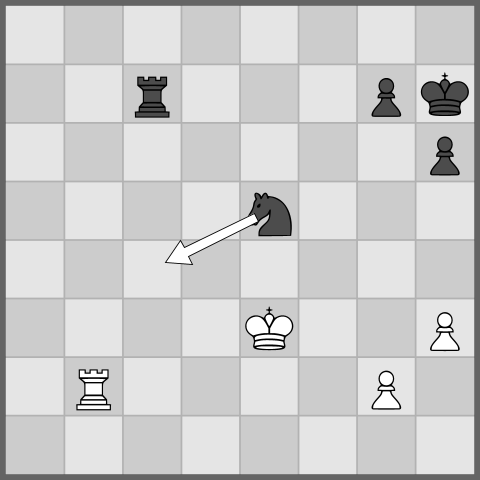
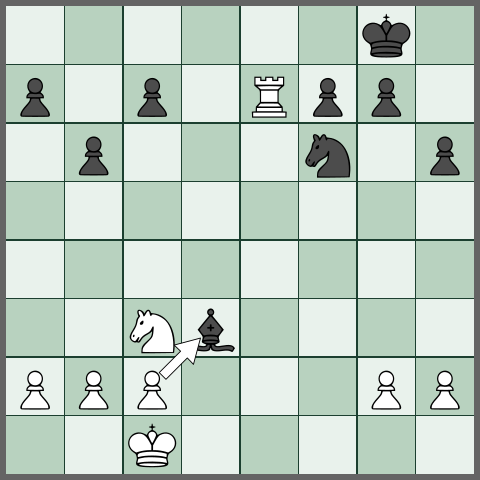
Theme CRTK boards in report green + use white-to-move positions
- Pipe `crtk fen render` through SVG, hex-swap squares + frame to the
  report's forest/sage palette, then rasterize via cairosvg to PNG.
  Mapping: #e5e5e5 -> palesage (light sq), #cccccc -> sage (dark sq),
  #b2b2b2 -> deepforest (frame).
- Reselect all three example positions to be White-to-move.
- The new class-1 / class-2 pair shares CRTK sister parent
  crtk_parent_-1001554678727017229: the only structural difference is
  whether Black has captured into e5, turning the position into a unique
  tactical win for White (dxe5 wins the queen, pv_gap = 1179 cp vs the
  class-1 sibling's pv_gap of 115 cp).
- Update both LaTeX builders' captions to reflect the new FENs and the
  white-to-move framing.

Changed region(s): [[0.0, 0.0312, 1.0, 1.0], [0.9688, 0.4688, 1.0, 0.5312], [0.0, 0.4688, 0.0312, 0.5312]]

diff --git a/scripts/render_puzzle_class_examples.py b/scripts/render_puzzle_class_examples.py
@@ -1,85 +1,71 @@
 #!/usr/bin/env python
-"""Render one example chess board per puzzle fine_label for the paper report.
+"""Render puzzle-class example boards via CRTK, themed in the report green.
 
-Uses CRTK's `fen render` command (PNG output) so the boards match the
-chess-rtk visual style elsewhere in the repo.  For the puzzle / near-puzzle
-pair we pick two positions that share a CRTK sister parent so the contrast
-is as small as possible: same near-source position, one verifies as a
-true puzzle and one as a near-puzzle.
+CRTK's `fen render --format svg` produces an SVG with hard-coded greys for
+the squares (#e5e5e5 light, #cccccc dark) and a near-black frame (#b2b2b2).
+We recolor those swatches in-place with the report's forest/sage palette,
+then rasterize to PNG with cairosvg so the LaTeX builders can include the
+result directly.
+
+The fine_label=1 and fine_label=2 examples share a CRTK sister parent so
+the near-puzzle vs puzzle distinction is as small as the data allows.
+All three positions are White-to-move for visual consistency.
 """
 from __future__ import annotations
 
 import json
+import re
 import subprocess
 import sys
+import tempfile
 from pathlib import Path
 
-# --- Hand-picked examples.  fine_label=1 and =2 share sister_group_id
-#     crtk_parent_-1001373292417858425 from the train split — same parent
-#     branch, the only difference is whether Bxe5 was already played.
+
+# --- Report green palette (matches LaTeX preamble) -------------------
+THEME = {
+    "#e5e5e5": "#E9F2EC",   # light square  -> palesage
+    "#cccccc": "#B8D2BF",   # dark  square  -> sage
+    "#b2b2b2": "#1B3F2F",   # frame         -> deepforest
+}
+
+
+# --- Hand-picked examples (all White to move) ------------------------
+#   fine_label=1 and =2 share sister_group_id
+#   `crtk_parent_-1001554678727017229` from the train split: the only
+#   structural difference is whether Black has captured into e5 (turning
+#   the position into a unique tactical win for White).
 EXAMPLES = [
     {
         "label": 0,
-        "title": "Class 0 — random_position (non-puzzle)",
-        "fen":  "8/2r3pk/7p/4n3/8/4K2P/1R4P1/8 b - - 1 47",
-        "best_uci": "e5c4",
-        "caption_en": (
-            "Quiet endgame, Black to move.  Best move \\texttt{Nc4+} wins "
-            "material but the position came from random midgame sampling "
-            "rather than a curated puzzle source."
-        ),
-        "caption_zh": (
-            "安静残局, 黑方走子。最佳走法 \\texttt{Nc4+} 赢得子力, 但该局面"
-            "来自随机的中局采样, 而非从谜题源中策划。"
-        ),
+        "title": "Class 0 -- random_position (non-puzzle)",
+        "fen":  "6k1/p1p1Rpp1/1p3n1p/8/8/2Nb4/PPP3PP/2K5 w - - 0 24",
+        "best_uci": "c2d3",
+        "pv_gap": 85,
     },
     {
         # Shares sister_group_id with the class-2 example below.
         "label": 1,
-        "title": "Class 1 — verified-near-puzzle (hard negative)",
-        "fen":  "rq2kb1r/1p1b1ppp/p1n2n2/1N2p3/1P3B2/2P2N2/P3BPPP/R2QK2R b KQkq - 1 17",
-        "best_uci": "e5f4",
-        "caption_en": (
-            "Black to move.  Best move \\texttt{exf4} (pawn captures bishop) "
-            "but the second-best line scores within \\textbf{124 cp}, so "
-            "this is \\emph{not} a unique-solution puzzle.  Shares a CRTK "
-            "sister parent with the class-2 example to the right: the only "
-            "structural difference is whether \\texttt{Bxe5} has been played."
-        ),
-        "caption_zh": (
-            "黑方走子。最佳走法 \\texttt{exf4} (兵吃象), 但第二好的走法在"
-            "\\textbf{124 厘兵}以内, 因此\\emph{不是}唯一解谜题。与右侧"
-            "类~2 样本共享一个 CRTK 姐妹父节点: 唯一的结构差异是"
-            "\\texttt{Bxe5} 是否已经走过。"
-        ),
+        "title": "Class 1 -- verified-near-puzzle (hard negative)",
+        "fen":  "5rk1/6p1/2Qbp2p/8/3P1p2/2N1q1PP/1P3P2/3R2K1 w - - 1 30",
+        "best_uci": "f2e3",
+        "pv_gap": 115,
     },
     {
-        # Sister-pair partner: Bxe5 was played; now Nxe5 is the unique winner.
+        # Sister-pair partner.
         "label": 2,
-        "title": "Class 2 — puzzle\\_filter\\_matched (true puzzle)",
-        "fen":  "rq2kb1r/1p1b1ppp/p1n2n2/1N2B3/1P6/2P2N2/P3BPPP/R1Q1K2R b KQkq - 0 17",
-        "best_uci": "c6e5",
-        "caption_en": (
-            "Black to move, after \\texttt{Bxe5}.  Best move \\texttt{Nxe5} "
-            "is the unique winning move (\\textbf{pv\\_gap = 1036 cp}).  "
-            "Single solution, large alternative penalty: this is the "
-            "positive class.  Same CRTK sister parent as the class-1 "
-            "example on the left."
-        ),
-        "caption_zh": (
-            "黑方走子, \\texttt{Bxe5} 之后。最佳走法 \\texttt{Nxe5} 是唯一"
-            "的获胜走法 (\\textbf{pv\\_gap = 1036 厘兵})。单一解, 备选惩罚"
-            "巨大: 此为正样本类。与左侧类~1 样本同一 CRTK 姐妹父节点。"
-        ),
+        "title": "Class 2 -- puzzle_filter_matched (true puzzle)",
+        "fen":  "5rk1/6p1/2Qbp2p/4q3/3P4/2N3pP/1P3P2/3R2K1 w - - 0 30",
+        "best_uci": "d4e5",
+        "pv_gap": 1179,
     },
 ]
 
 
-def crtk_render(fen: str, best_uci: str, out_path: Path, size: int = 480):
-    """Invoke `crtk fen render` to produce a PNG board with an arrow.
+def crtk_render_svg(fen: str, best_uci: str, out_path: Path, size: int = 480):
+    """Invoke `crtk fen render` to produce an SVG board with an arrow.
 
     The crtk launcher cd's into its own repo root, so we pass an absolute
-    output path to land the PNG where the LaTeX builder expects it.
+    output path.
     """
     out_path.parent.mkdir(parents=True, exist_ok=True)
     out_abs = out_path.resolve()
@@ -87,7 +73,7 @@ def crtk_render(fen: str, best_uci: str, out_path: Path, size: int = 480):
         "crtk", "fen", "render",
         "--fen", fen,
         "--output", str(out_abs),
-        "--format", "png",
+        "--format", "svg",
         "--arrow", best_uci,
         "--size", str(size),
     ]
@@ -98,23 +84,40 @@ def crtk_render(fen: str, best_uci: str, out_path: Path, size: int = 480):
     return out_path
 
 
+def recolor_svg(svg_path: Path, mapping: dict[str, str]) -> str:
+    """Replace literal hex colors in the SVG body with theme equivalents."""
+    text = svg_path.read_text()
+    # Hex codes are written lowercase in CRTK's output; do a case-insensitive
+    # whole-token replace inside fill="..." attributes only.
+    def _sub(match: re.Match) -> str:
+        original = match.group(1)
+        target = mapping.get(original.lower(), original)
+        return f'fill="{target}"'
+    return re.sub(r'fill="(#[0-9a-fA-F]{6})"', _sub, text)
+
+
+def rasterize_svg_to_png(svg_text: str, png_path: Path, dpi: int = 220):
+    import cairosvg  # local import: only required when this script runs
+    png_path.parent.mkdir(parents=True, exist_ok=True)
+    cairosvg.svg2png(bytestring=svg_text.encode("utf-8"), write_to=str(png_path), dpi=dpi)
+
+
 def main():
     out_dir = Path("reports/audits")
     out_dir.mkdir(parents=True, exist_ok=True)
 
-    # Render each class to its own PNG via CRTK.
-    rendered = []
-    for ex in EXAMPLES:
-        out_png = out_dir / f"puzzle_class_{ex['label']}.png"
-        crtk_render(ex["fen"], ex["best_uci"], out_png)
-        rendered.append(out_png)
-        print(f"Rendered class {ex['label']}: {out_png}")
+    with tempfile.TemporaryDirectory(prefix="crtk-render-") as td:
+        td_path = Path(td)
+        for ex in EXAMPLES:
+            svg_tmp = td_path / f"class_{ex['label']}.svg"
+            crtk_render_svg(ex["fen"], ex["best_uci"], svg_tmp)
+            themed = recolor_svg(svg_tmp, THEME)
+            png_out = out_dir / f"puzzle_class_{ex['label']}.png"
+            rasterize_svg_to_png(themed, png_out)
+            print(f"Rendered class {ex['label']}: {png_out}")
 
-    # Persist metadata so the LaTeX builders can read the captions.
     captions = [{"label": e["label"], "title": e["title"], "fen": e["fen"],
-                 "best_uci": e["best_uci"],
-                 "caption_en": e["caption_en"],
-                 "caption_zh": e["caption_zh"],
+                 "best_uci": e["best_uci"], "pv_gap": e["pv_gap"],
                  "png": f"reports/audits/puzzle_class_{e['label']}.png"}
                 for e in EXAMPLES]
     out_json = out_dir / "puzzle_class_examples.json"

diff --git a/scripts/build_paper_report_latex.py b/scripts/build_paper_report_latex.py
@@ -1145,28 +1145,31 @@ per-slice heatmap (next section) cuts the leaderboard along.
 \begin{minipage}[t]{0.32\linewidth}\centering
 \includegraphics[width=\linewidth]{reports/audits/puzzle_class_0.png}\\[2pt]
 {\sffamily\bfseries\small\color{forest}Class 0 --- random\_position}\\
-{\scriptsize\color{muted}\texttt{8/2r3pk/...K2P/1R4P1/8 b}}\\
-{\scriptsize\color{muted}arrow: Nc4+ (random midgame sample, no curated puzzle)}
+{\scriptsize\color{muted}\texttt{6k1/p1p1Rpp1/...PP/2K5 w}}\\
+{\scriptsize\color{muted}arrow: Bxd3 (random midgame sample, no unique puzzle)}
 \end{minipage}\hfill
 \begin{minipage}[t]{0.32\linewidth}\centering
 \includegraphics[width=\linewidth]{reports/audits/puzzle_class_1.png}\\[2pt]
 {\sffamily\bfseries\small\color{forest}Class 1 --- near-puzzle}\\
-{\scriptsize\color{muted}\texttt{rq2kb1r/...P3BPPP/R2QK2R b}}\\
-{\scriptsize\color{muted}arrow: exf4 (pv\_gap = 124 cp; not unique-solution)}
+{\scriptsize\color{muted}\texttt{5rk1/6p1/2Qbp2p/.../3R2K1 w}}\\
+{\scriptsize\color{muted}arrow: fxe3 (pv\_gap = 115 cp; not unique)}
 \end{minipage}\hfill
 \begin{minipage}[t]{0.32\linewidth}\centering
 \includegraphics[width=\linewidth]{reports/audits/puzzle_class_2.png}\\[2pt]
 {\sffamily\bfseries\small\color{forest}Class 2 --- puzzle}\\
-{\scriptsize\color{muted}\texttt{rq2kb1r/...P3BPPP/R1Q1K2R b}}\\
-{\scriptsize\color{muted}arrow: Nxe5 (pv\_gap = 1036 cp; unique winning move)}
+{\scriptsize\color{muted}\texttt{5rk1/6p1/2Qbp2p/.../3R2K1 w}}\\
+{\scriptsize\color{muted}arrow: dxe5 (pv\_gap = 1179 cp; unique winner)}
 \end{minipage}
 \caption{One representative example per class, rendered with
-\texttt{crtk fen render}.  \textbf{The class~1 and class~2 boards share
-the same CRTK sister parent} (\texttt{crtk\_parent\_-1001373292417858425}):
-the only structural difference is whether \texttt{Bxe5} has been played.
-This makes the discriminator that distinguishes near-puzzle from puzzle
-as small as the data allows --- a near-perfect ablation of the
-``unique-solution'' property.}
+\texttt{crtk fen render} and recolored to the report palette.  All three
+positions are \textbf{White to move}.  \textbf{The class~1 and class~2
+boards share the same CRTK sister parent}
+(\texttt{crtk\_parent\_-1001554678727017229}): the only structural
+difference is that in class~2 Black has captured into e5, turning the
+position into a unique tactical win for White (\texttt{dxe5}~$\to$ wins
+the queen).  This pairs the near-puzzle and the puzzle as tightly as the
+data allows --- the same continuation up to one move, with the
+binary label flipping on the uniqueness of the response.}
 \end{figure}
 
 \begin{tcolorbox}[callout, title=Why this three-way structure matters]